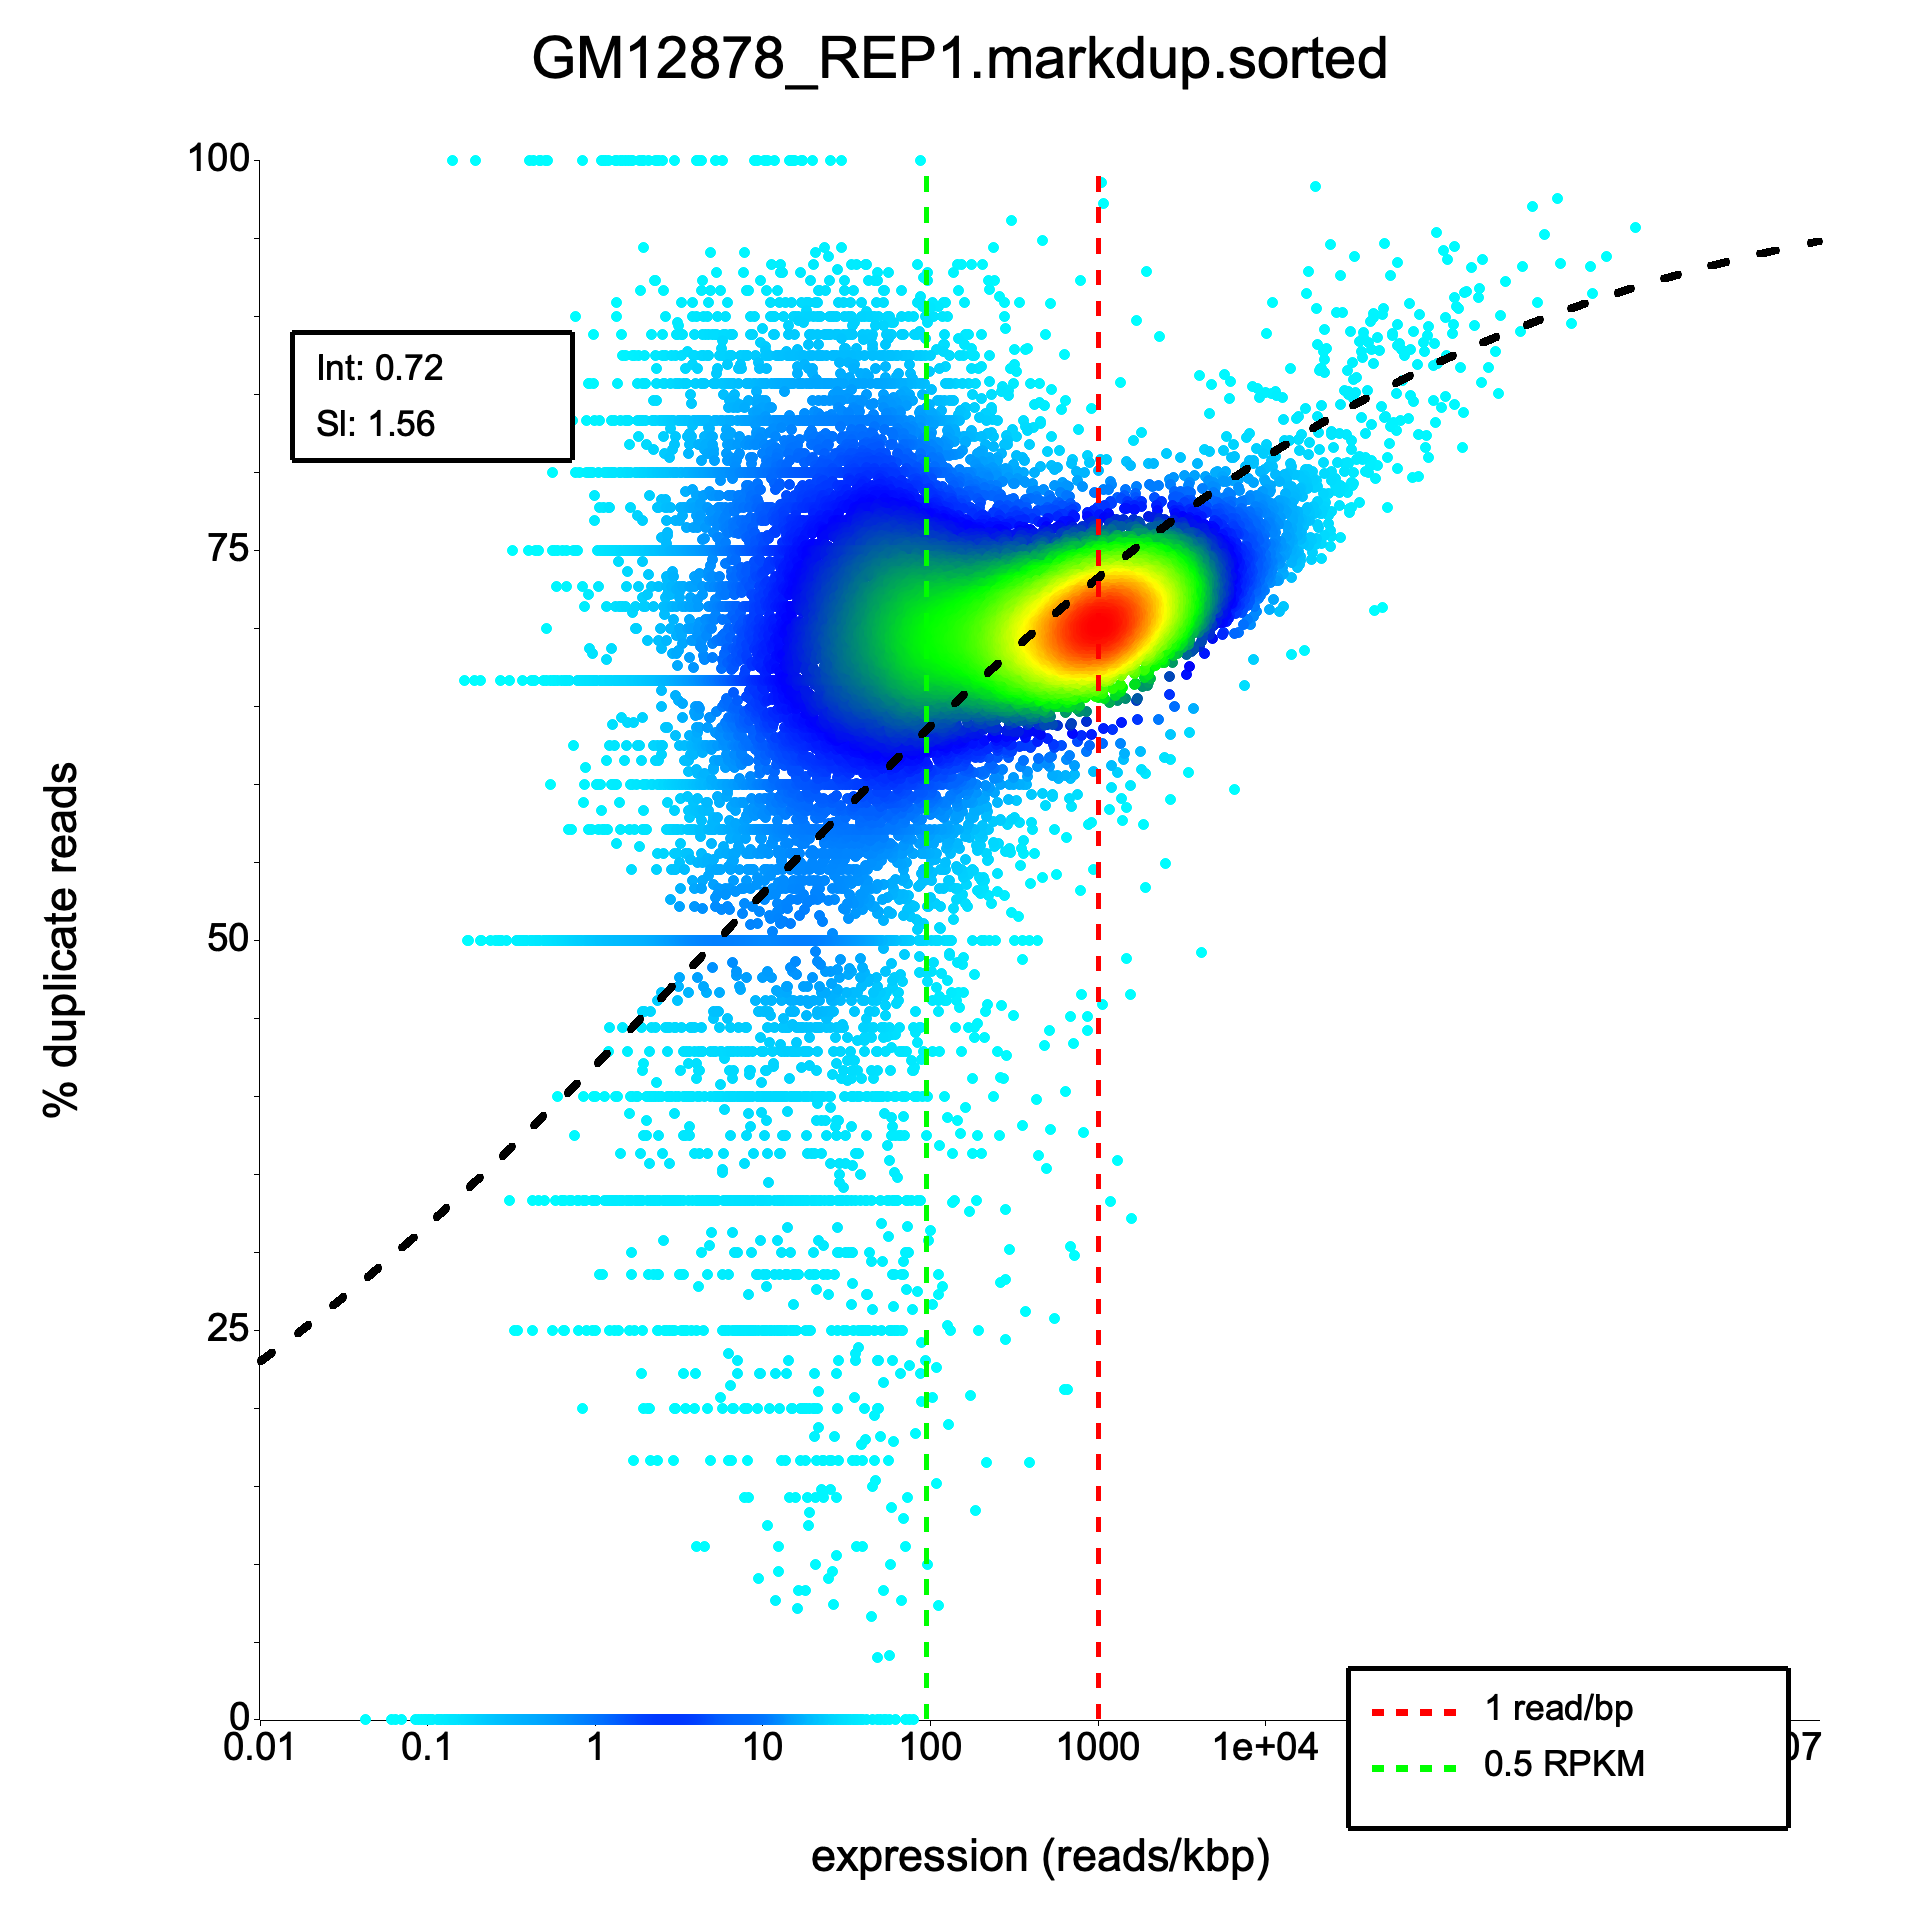
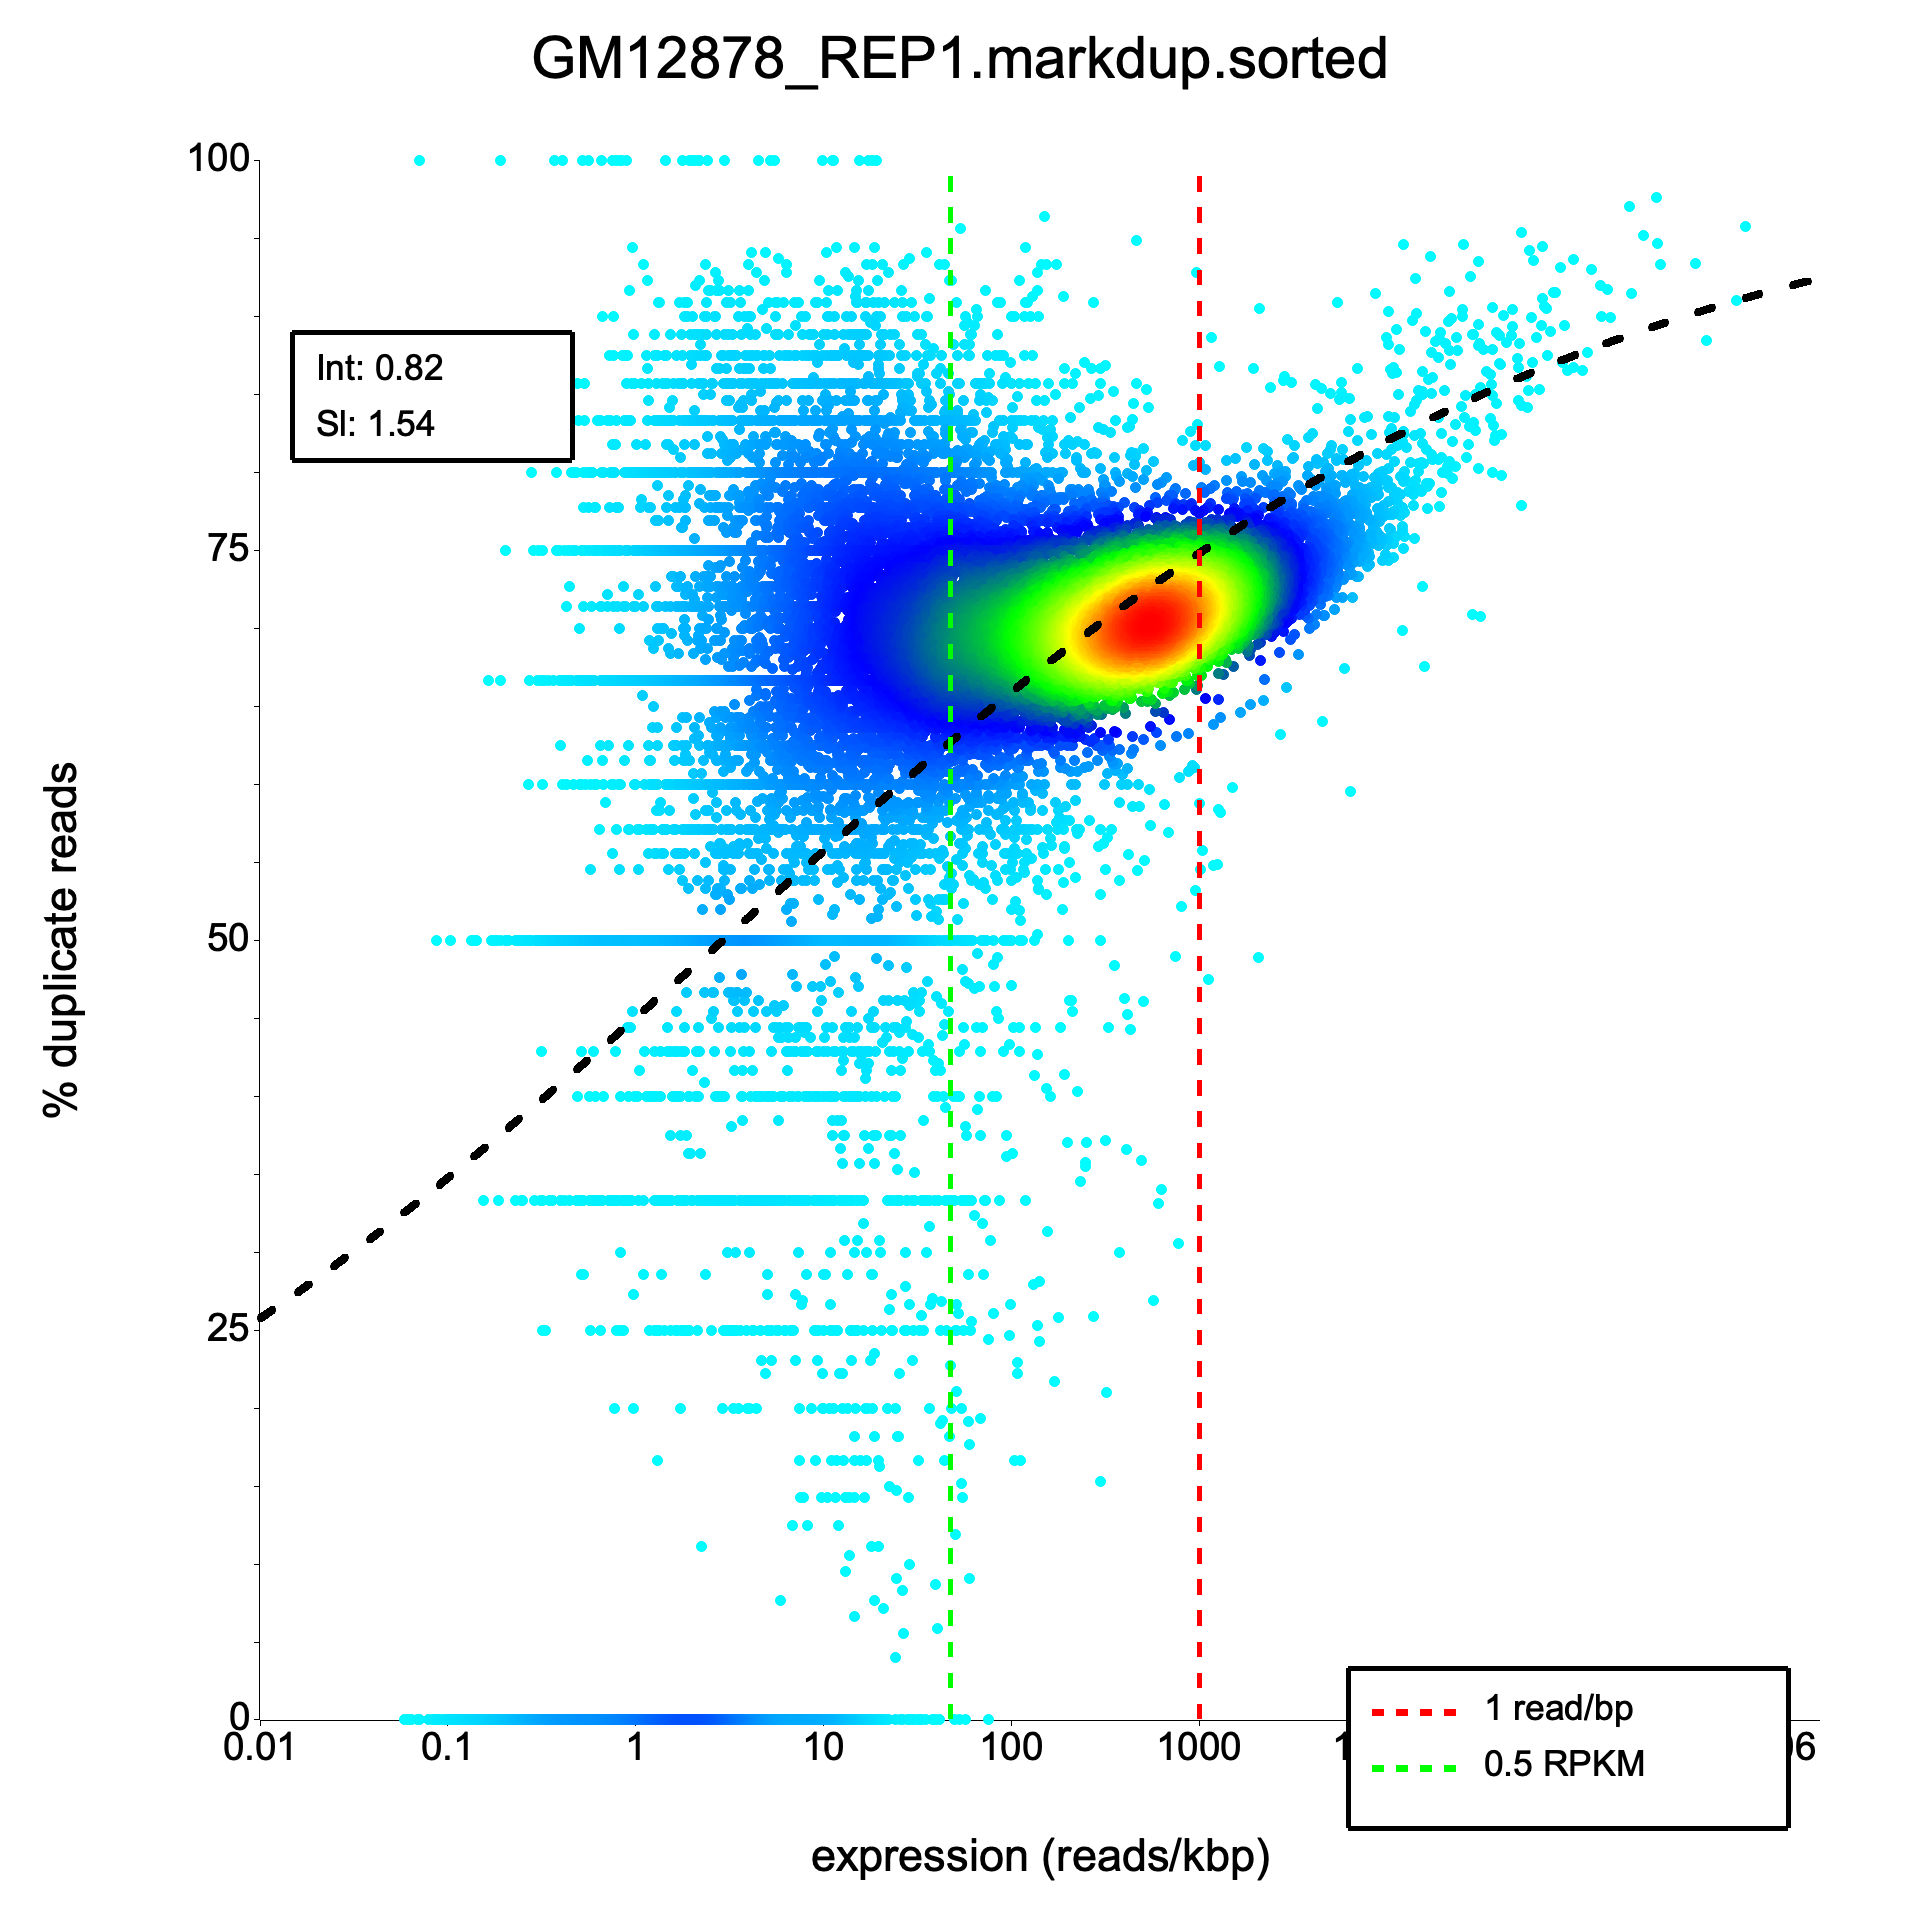
docs: update plots with correct paired-end flags (-s 2 -p)
The previous plot regeneration used incorrect flags (missing -s 2 -p),
causing ~2x read counts and different intercept/slope values. Regenerated
all plots with correct paired-end reverse-stranded settings matching the
original benchmark. dupRadar intercept/slope now matches upstream R:
Int: 0.82, Sl: 1.54.

diff --git a/TODO-plot-tweaks-report.md b/TODO-plot-tweaks-report.md
@@ -12,14 +12,16 @@ Progress report for each item in TODO-plot-tweaks.md.
    to nearest 0.05) which produced ~2x more bins than R's `pretty()` algorithm. This made the
    histogram appear jagged/bimodal with peak frequencies around 500 instead of R's ~1000.
 
-2. **Density scatter intercept/slope**: RustQC shows Int: 0.72, Sl: 1.56 vs R's Int: 0.82,
-   Sl: 1.54. This is a data-level difference from counting, not a plotting issue. The scatter
-   plot visual appearance (density coloring, gradient, overall shape) is very similar.
+2. **Density scatter intercept/slope**: Originally showed Int: 0.72, Sl: 1.56 vs R's Int: 0.82,
+   Sl: 1.54 — this turned out to be caused by running without the `-p` (paired-end) flag,
+   not a code regression. With correct flags (`-s 2 -p`), RustQC produces Int: 0.82, Sl: 1.54,
+   matching upstream R to 10+ significant digits.
 
 3. **Boxplot**: Minor differences in last-bin boundary handling (Rust includes max RPK in last
    bin, R excludes it) and NA handling. Visually very similar.
 
-**Status**: The histogram binning was the main visual issue — fixed below.
+**Status**: Histogram binning fixed. Data differences resolved (were caused by incorrect run
+flags, not a code regression — the counting code has not changed since 6a34e62).
 
 ### Expression histogram bar widths — FIXED
 
